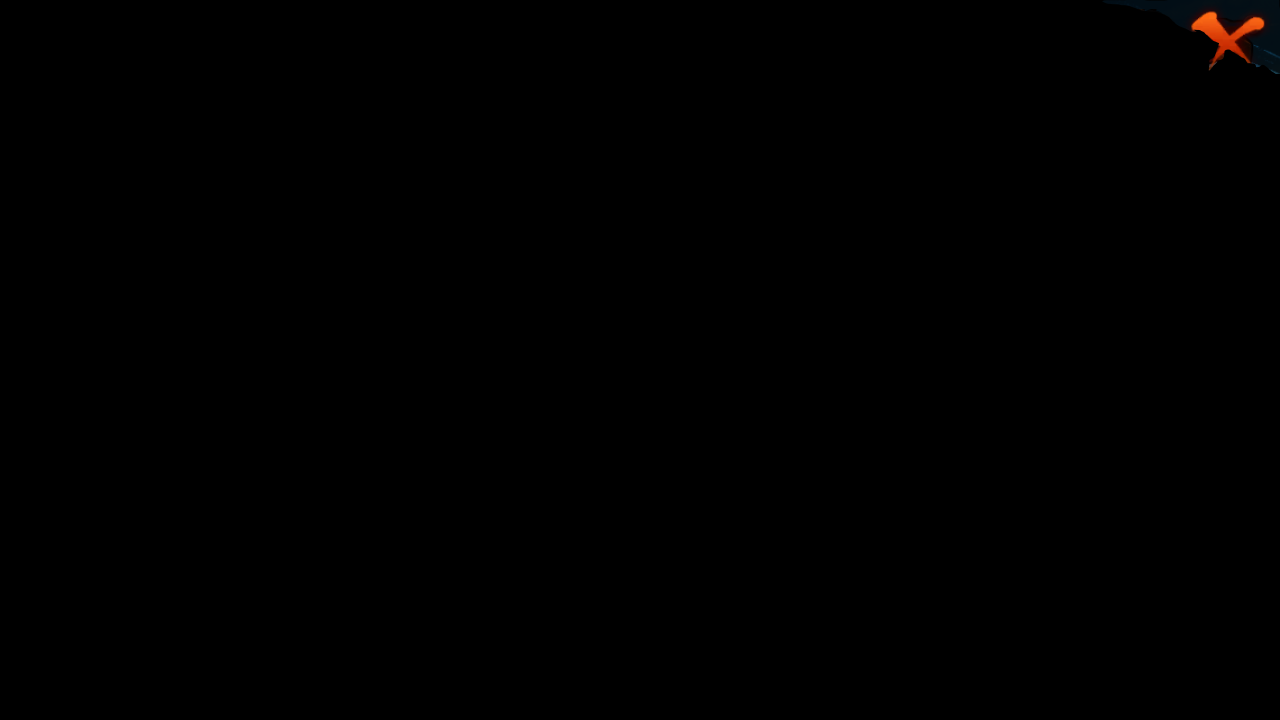
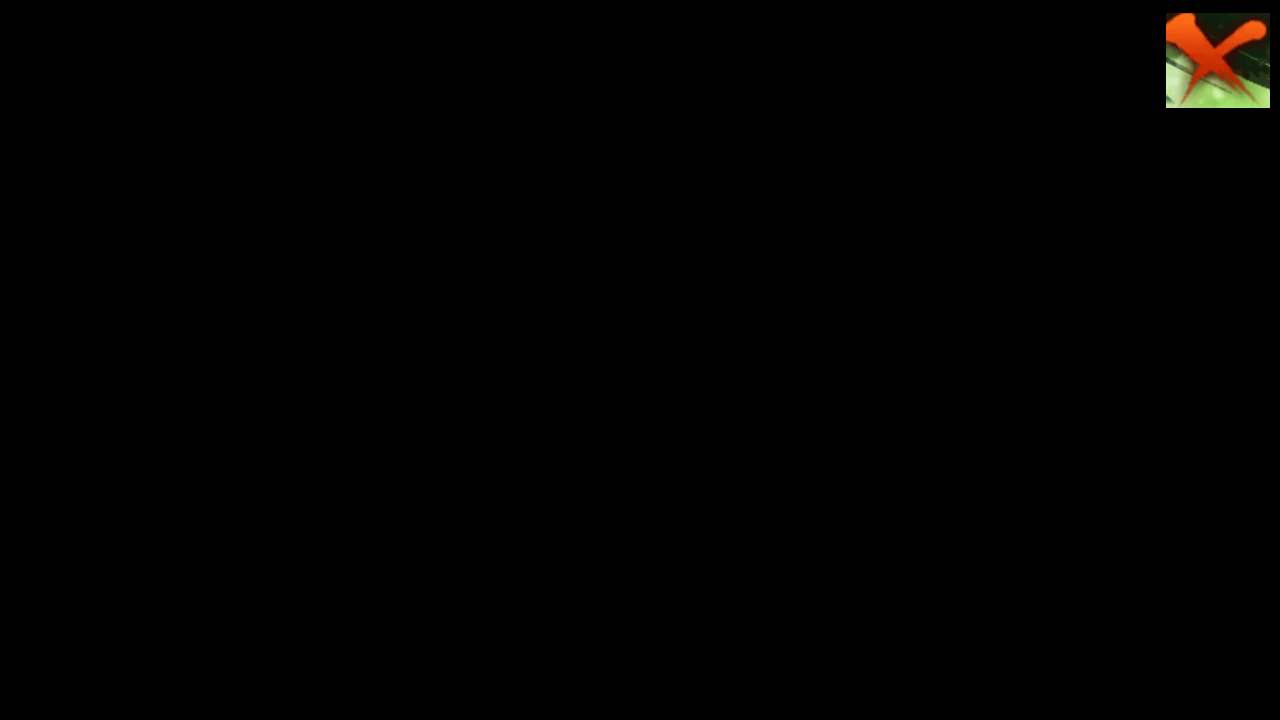
新增购买每周礼包

Changed region(s): [[0.9062, 0.0, 1.0, 0.1528]]

diff --git a/tasks/login/assets/assets_login_popup.py b/tasks/login/assets/assets_login_popup.py
@@ -3,17 +3,6 @@ from module.base.button import Button, ButtonWrapper
 # This file was auto-generated, do not modify it manually. To generate:
 # ``` python -m dev_tools.button_extract ```
 
-CHAO_YING_ADVERTISE = ButtonWrapper(
-    name='CHAO_YING_ADVERTISE',
-    cn=Button(
-        file='./assets/cn/login/popup/CHAO_YING_ADVERTISE.png',
-        area=(1127, 0, 1280, 74),
-        search=(1107, 0, 1280, 94),
-        color=(30, 14, 9),
-        button=(1127, 0, 1280, 74),
-    ),
-    en=None,
-)
 Daily_Bonus = ButtonWrapper(
     name='Daily_Bonus',
     cn=Button(
@@ -30,31 +19,24 @@ GAME_IN_ADVERTISE = ButtonWrapper(
     cn=[
         Button(
             file='./assets/cn/login/popup/GAME_IN_ADVERTISE.png',
+            area=(1190, 3, 1278, 68),
+            search=(1170, 0, 1280, 88),
+            color=(71, 30, 17),
+            button=(1190, 3, 1278, 68),
+        ),
+        Button(
+            file='./assets/cn/login/popup/GAME_IN_ADVERTISE.2.png',
             area=(1183, 9, 1276, 74),
             search=(1163, 0, 1280, 94),
             color=(97, 67, 70),
             button=(1183, 9, 1276, 74),
         ),
         Button(
-            file='./assets/cn/login/popup/GAME_IN_ADVERTISE.2.png',
-            area=(1177, 1, 1280, 79),
-            search=(1157, 0, 1280, 99),
-            color=(44, 15, 6),
-            button=(1177, 1, 1280, 79),
-        ),
-        Button(
             file='./assets/cn/login/popup/GAME_IN_ADVERTISE.3.png',
-            area=(1102, 0, 1280, 74),
-            search=(1082, 0, 1280, 94),
-            color=(26, 12, 8),
-            button=(1102, 0, 1280, 74),
-        ),
-        Button(
-            file='./assets/cn/login/popup/GAME_IN_ADVERTISE.4.png',
-            area=(1133, 0, 1280, 72),
-            search=(1113, 0, 1280, 92),
-            color=(33, 11, 5),
-            button=(1133, 0, 1280, 72),
+            area=(1166, 13, 1270, 108),
+            search=(1146, 0, 1280, 128),
+            color=(133, 97, 45),
+            button=(1166, 13, 1270, 108),
         ),
     ],
     en=None,

diff --git a/tasks/tili/equipment.py b/tasks/tili/equipment.py
@@ -17,6 +17,7 @@ from tasks.tili.ocr import StuffOcr
 class Equipment(UI):
     def handle_equipment(self):
         self.device.click_record_clear()
+        self.device.stuck_record_clear()
         self.ui_ensure(page_main)
         ocr=DigitCounter(TI_LI_REMAIN_COUNTER,lang='cn')
         current,remain,total=ocr.ocr_single_line(self.device.image)
@@ -24,17 +25,23 @@ class Equipment(UI):
             self.config.TiLi_TiLiRemain=current
             return False
         self._equipment_enter()
-        for _ in self.loop():
-            self._equipment_part_red_dot_handle()
-            self.ui_ensure(page_equipment)
-            self.device.click(EQUIPMENT_KNIFE)
-            self._select_equipment_part()
-            self._stuff_material_check()
-            res=self._start_sweep()
-            self.ui_ensure(page_equipment)
-            self._synthesized_and_equipped()
-            if res:
-                break
+        self.device.stuck_timer=Timer(300,count=300).start()
+        try:
+            for _ in self.loop():
+                self._equipment_part_red_dot_handle()
+                self.ui_ensure(page_equipment)
+                self.device.click(EQUIPMENT_KNIFE)
+                self._select_equipment_part()
+                self._stuff_material_check()
+                res=self._start_sweep()
+                self.ui_ensure(page_equipment)
+                self._synthesized_and_equipped()
+                if res:
+                    break
+        finally:
+            self.device.stuck_timer=Timer(60,count=60).start()
+
+
 
 
 

diff --git a/tasks/login/popup.py b/tasks/login/popup.py
@@ -17,16 +17,17 @@ class GameInPopup(ModuleBase):
         for _ in  self.loop():
             if timer.reached():
                 return True
-            if self.appear_then_click(GAME_MAIN_ANNOUNCEMENT):
+            if self.appear_then_click(GAME_MAIN_ANNOUNCEMENT,interval=2):
                 timer.reset()
                 continue
-            if self.appear_then_click(GAME_IN_ADVERTISE):
+            if self.match_template_luma(GAME_IN_ADVERTISE,interval=2):
+                self.device.click(GAME_IN_ADVERTISE)
                 timer.reset()
                 continue
-            if self.appear_then_click(Daily_Bonus):
+            if self.appear_then_click(Daily_Bonus,interval=2):
                 timer.reset()
                 continue
-            if self.appear_then_click(RANK_UP):
+            if self.appear_then_click(RANK_UP,interval=2):
                 timer.reset()
                 continue
 
@@ -51,7 +52,5 @@ class GameInPopup(ModuleBase):
                 return True
             if timer.reached():
                 return False
-
-
 
         return False

diff --git a/tasks/tili/dungeon.py b/tasks/tili/dungeon.py
@@ -9,6 +9,7 @@ from tasks.tili.assets.assets_tili_dungeon import *
 class Dungeon(UI):
     def handle_dungeon(self):
         self.device.click_record_clear()
+        self.device.stuck_record_clear()
         self.ui_ensure(page_main)
         ocr=DigitCounter(TI_LI_REMAIN_COUNTER,lang='cn')
         current,remain,total=ocr.ocr_single_line(self.device.image)
@@ -23,7 +24,7 @@ class Dungeon(UI):
         else:
             return False
     def _dungeon_sweep(self):
-        time=Timer(40,count=60).start()
+        time=Timer(60,count=60).start()
         for _ in self.loop():
             if  time.reached():
                 raise GameStuckError('Dungeon Sweep Stucked')
@@ -37,7 +38,7 @@ class Dungeon(UI):
                 continue
             if self.appear_then_click(SWEEP_CONFIRM_BUTTON):
                 continue
-            if self.appear_then_click(SWEEP_BUTTON):
+            if self.image_color_count(SWEEP_BUTTON,color=(251,182,0),threshold=221,count=200):
                 continue
             if self.appear_then_click(CONVENIENT_SWEEP):
                 continue

diff --git a/tasks/base/page.py b/tasks/base/page.py
@@ -225,9 +225,8 @@ page_battle_order_rank.link(CLOSE,destination=page_battle_order)
 page_battle_order.link(BATTLE_ORDER_GOTO_RANK,destination=page_battle_order_rank)
 #StorePurchase
 page_chongzhi=Page(CHONG_ZHI_CHECK)
-page_main.link(CHONG_ZHI_CHECK,destination=page_chongzhi)
+page_main.link(MAIN_GOTO_CHONG_ZHI,destination=page_chongzhi)
 page_chongzhi.link(CLOSE,destination=page_main)
-
 #MiJing
 page_ren_zhe_tiao_zhan=Page(REN_ZHE_TIAO_ZHAN_CHECK)
 page_mi_jing=Page(MI_JING_CHECK)
